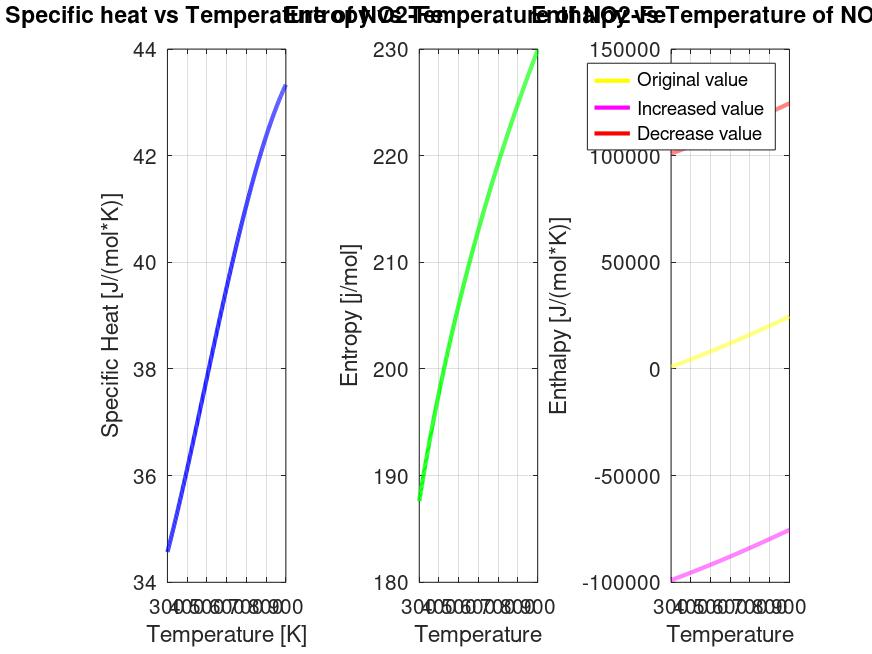
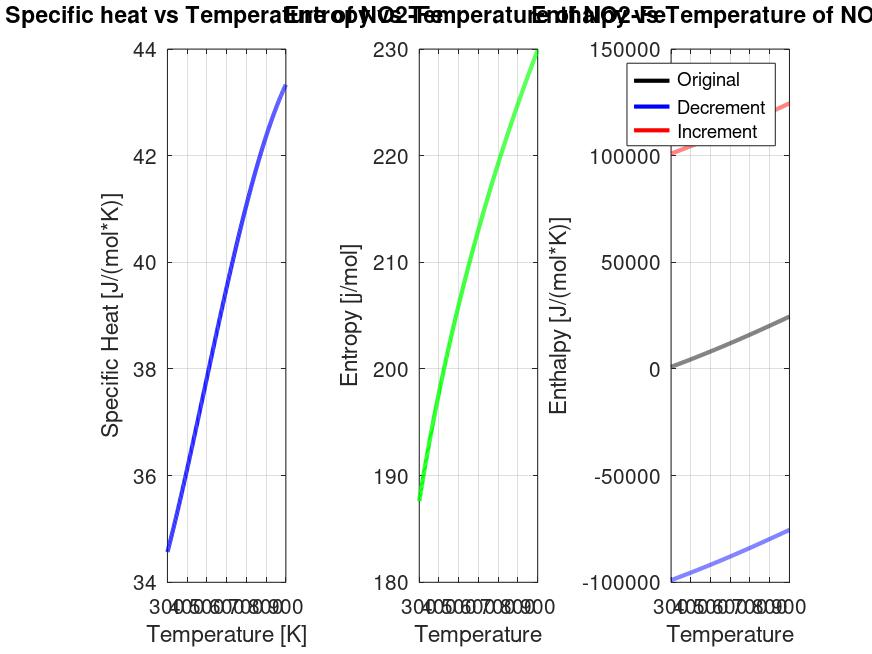
Plot fix

diff --git a/plots_parsed.m b/plots_parsed.m
@@ -19,17 +19,17 @@ function [P,Q,R]= plots_parsed(Cp,S,H,H_down,H_up,T,compound)
  
  
  subplot(1,3,3);
- R=plot(T,H,'linewidth',2,'color','yellow');
+ R=plot(T,H,'linewidth',2,'color','black');
  grid on
  xlabel('Temperature');
  ylabel('Enthalpy [J/(mol*K)]');
  title(sprintf('Enthalpy vs Temperature of %s ',name_compound));
  hold on
  
- plot(T,H_down,'linewidth',2,'color','magenta');
+ plot(T,H_down,'linewidth',2,'color','blue');
  plot(T,H_up,'linewidth',2,'color','red');
  
- h=legend("Original value","Increased value","Decrease value")
+ h=legend("Original","Decrement","Increment")
  
  hold off
  
